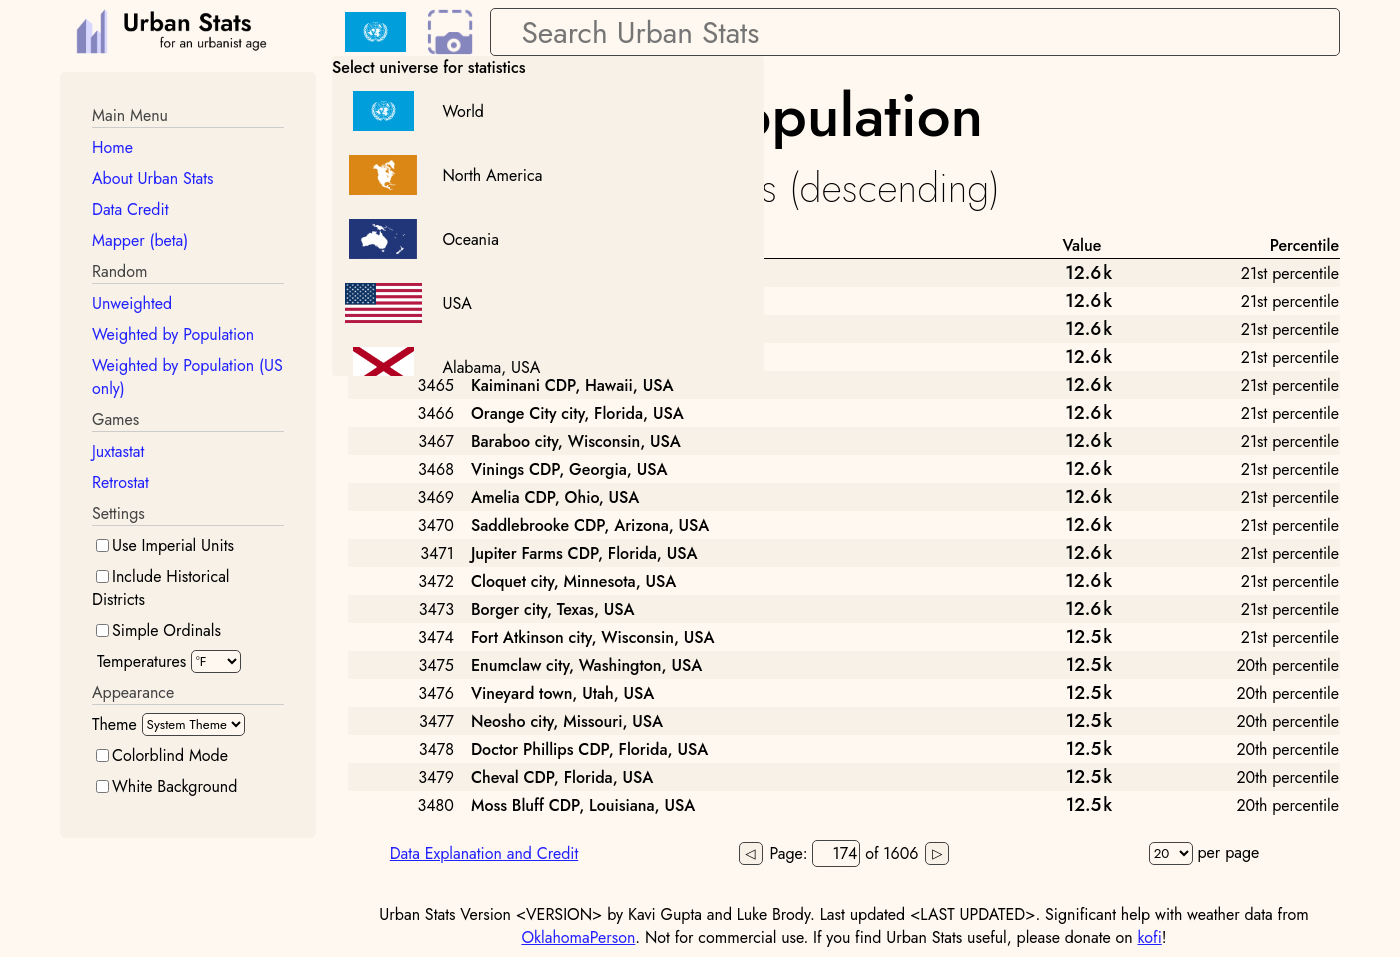
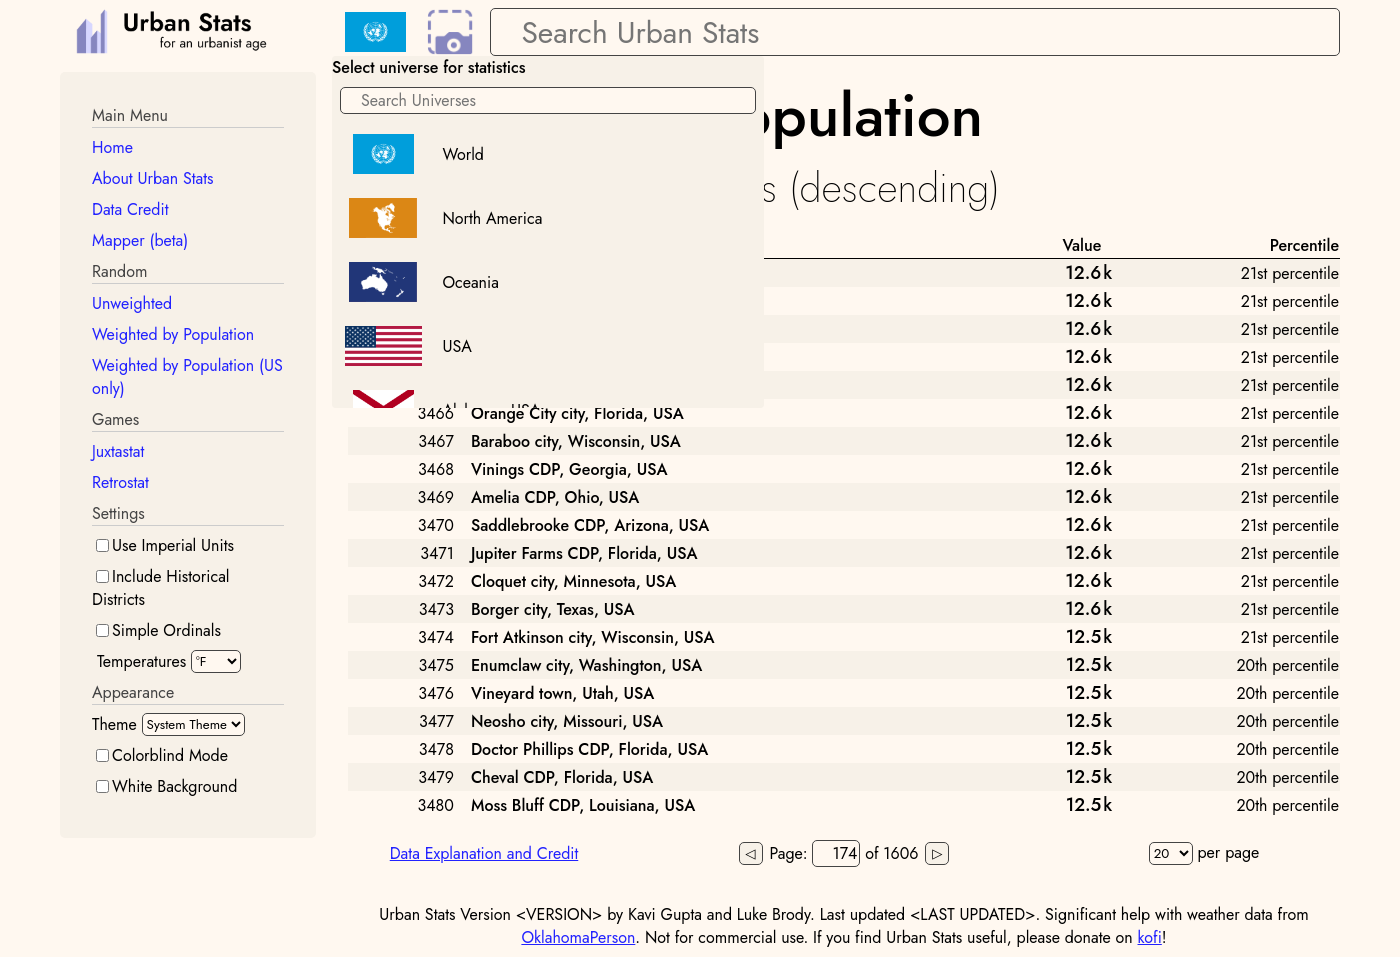
Implement universe search (#747)
https://github.com/user-attachments/assets/00c25f5c-c7bd-4111-9d83-ca1a7044b6d0

Closes #611

Changed region(s): [[0.2457, 0.0909, 0.4914, 0.4242]]

diff --git a/react/src/components/header.tsx b/react/src/components/header.tsx
@@ -1,4 +1,4 @@
-import React, { ReactNode, useContext } from 'react'
+import React, { ReactNode, useContext, useState } from 'react'
 
 import '../common.css'
 import './header.css'
@@ -137,6 +137,8 @@ function HeaderImage(): ReactNode {
     )
 }
 
+const showSearchThreshold = 10
+
 function UniverseSelector(
     { allUniverses }: { allUniverses: readonly string[] },
 ): ReactNode {
@@ -168,7 +170,7 @@ function UniverseSelector(
             borderRadius: '0.25em',
             display: dropdownOpen ? 'block' : 'none',
             width: '500%',
-            maxHeight: '20em',
+            maxHeight: allUniverses.length > showSearchThreshold ? '22em' : '20em',
             overflowY: 'auto',
         }}
         >
@@ -227,6 +229,9 @@ function UniverseDropdown(
 ): ReactNode {
     const colors = useColors()
     const navContext = useContext(Navigator.Context)
+    const [searchTerm, setSearchTerm] = useState('')
+    const filteredUniverses = allUniverses.filter(universe => universe.toLowerCase().includes(searchTerm.toLowerCase()))
+
     return (
         <div>
             <div
@@ -238,7 +243,38 @@ function UniverseDropdown(
             >
                 Select universe for statistics
             </div>
-            {allUniverses.map((altUniverse) => {
+            {
+                allUniverses.length > showSearchThreshold
+                    ? (
+                            <div style={{
+                                padding: '0.5em',
+                                width: '100%',
+                                backgroundColor: colors.slightlyDifferentBackground,
+                            }}
+                            >
+                                <input
+                                    type="text"
+                                    placeholder="Search Universes"
+                                    className="serif"
+                                    style={{
+                                        paddingLeft: '1.25em',
+                                        fontSize: '16px',
+                                        width: '100%',
+                                    }}
+                                    onFocus={e => setTimeout(() => {
+                                        e.target.select()
+                                    }, 0)}
+                                    value={searchTerm}
+                                    onChange={(e) => { setSearchTerm(e.target.value) }}
+                                    data-test-id="universe-search"
+                                >
+
+                                </input>
+                            </div>
+                        )
+                    : null
+            }
+            {filteredUniverses.map((altUniverse) => {
                 return (
                     <div
                         key={altUniverse}

diff --git a/react/test/statistics_test.ts b/react/test/statistics_test.ts
@@ -81,9 +81,10 @@ test('statistics-navigation-last-page', async (t) => {
 
 urbanstatsFixture('statistic universe selector test', `${target}/statistic.html?statname=Population&article_type=City&start=3461&amount=20`)
 
+const universeSelector = 'img.universe-selector'
+
 test('statistic-universe-selector-test', async (t) => {
-    await t
-        .click(Selector('img').withAttribute('class', 'universe-selector'))
+    await t.click(universeSelector)
     await screencap(t)
     await t
         .click(
@@ -93,6 +94,13 @@ test('statistic-universe-selector-test', async (t) => {
     await t.expect(getLocation())
         .eql(`${target}/statistic.html?statname=Population&article_type=City&start=261&amount=20&universe=Puerto+Rico%2C+USA`)
     await screencap(t)
+})
+
+test('universe search field', async (t) => {
+    await t.click(universeSelector).typeText('[data-test-id=universe-search]', 'new')
+    await screencap(t)
+    await t.click(Selector('div').withExactText('New Mexico, USA'))
+    await t.expect(getLocation()).eql(`${target}/statistic.html?statname=Population&article_type=City&start=501&amount=20&universe=New+Mexico%2C+USA`)
 })
 
 urbanstatsFixture('statistic universe availability test', `${target}/statistic.html?statname=Commute+Car+__PCT__&article_type=Subnational+Region&start=21&amount=20&universe=USA`)
